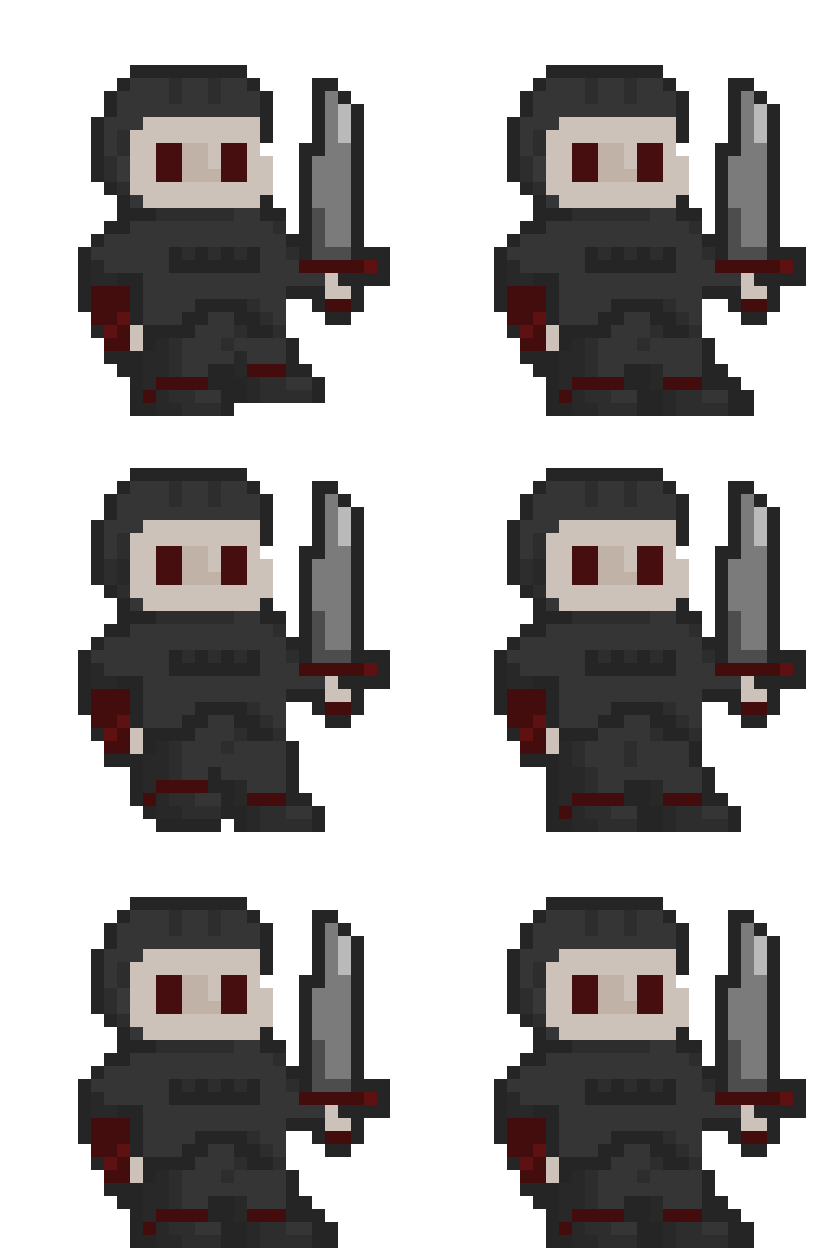
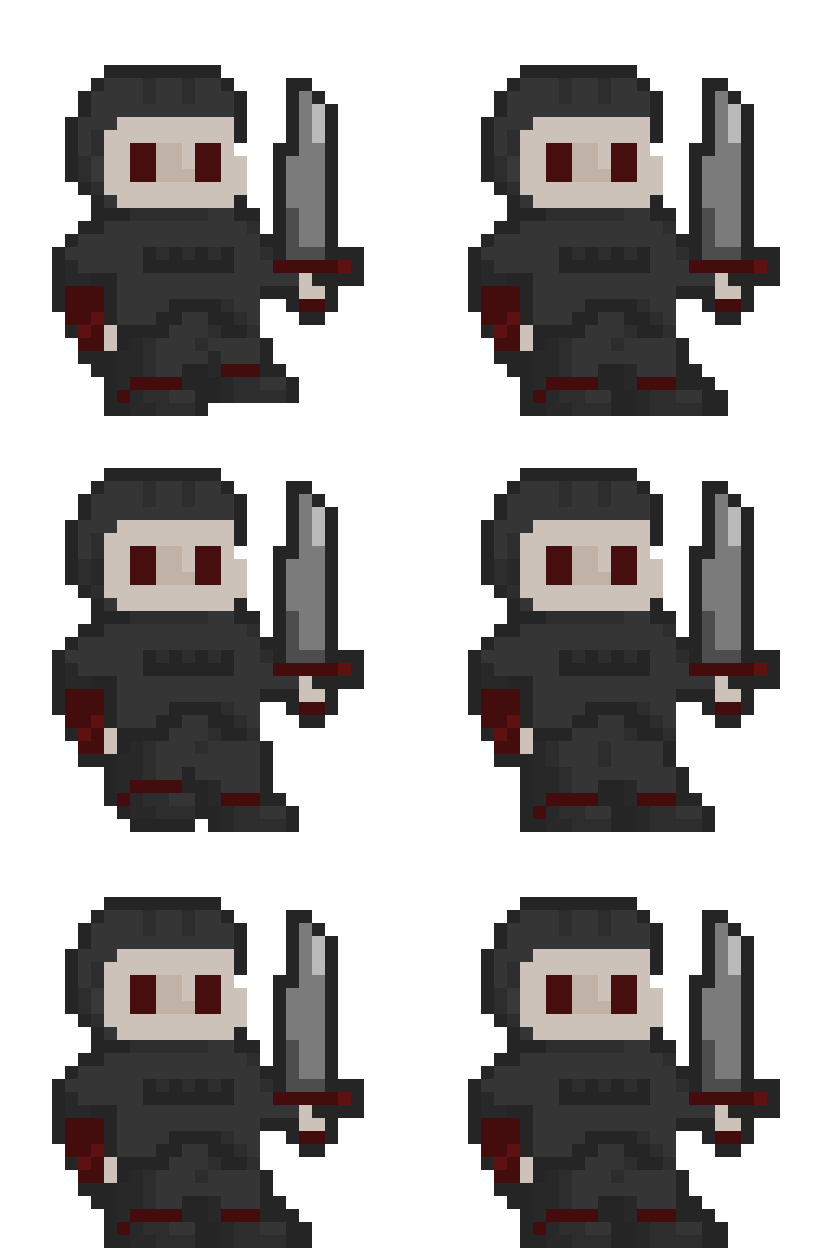
Recentered sprites!

diff --git a/core/src/main/java/io/github/killtheinnocents/View.java b/core/src/main/java/io/github/killtheinnocents/View.java
@@ -283,6 +283,7 @@ public class View extends ScreenAdapter {
     private int deathIndex;
     private int mapIndex;
     private int settingIndex;
+    private int roomIndex;
 
     // Screens
     private enum Screen {
@@ -348,9 +349,7 @@ public class View extends ScreenAdapter {
 
     public void create() {
         // Assets
-
         // sfx Gdx.audio.newSound(Gdx.files.internal(name));
-        // music Gdx.audio.newMusic(Gdx.files.internal(name));
 
         music = Gdx.audio.newMusic(Gdx.files.internal("MenuSong.wav"));
         music.setVolume(musicVolume);
@@ -385,6 +384,21 @@ public class View extends ScreenAdapter {
         healthSprite = new Sprite(wizardSheet);
         healthBarAnimation = new Animation<TextureRegion>(.25f, player.animationSplicer(healthSheet,3, 6));
 
+
+        // Logic Components
+        gameRooms = new Room[6];
+        for (int i = 0; i < 5; i++)
+        {
+            if (i == 4)
+                gameRooms[i] = new Room(player, 0, "Chest", 1, 0, 0, world);
+            else if (i == 2)
+                gameRooms[i] = new Room(player, 2, "Normal", 1, 100, 2, world);
+
+            else
+                gameRooms[i] = new Room(player, 1, "Normal", 1, 100, 2, world);
+
+        }
+
         enemies1 = new Array<>();
         createEnemies();
 
@@ -392,6 +406,7 @@ public class View extends ScreenAdapter {
         mapIndex = 0;
         settingIndex = 7;
         introIndex = 0;
+        roomIndex = 0;
 
         map = false;
         keyTime = 0;
@@ -408,10 +423,14 @@ public class View extends ScreenAdapter {
     @Override
     public void render(float delta)
     {
-        checkDistance();
+        if (roomIndex != 4)
+        {
+            checkDistance();
+            clamp(player,enemies1.get(0));
+        }
+
         this.update();
         super.render(delta);
-        clamp(player,enemies1.get(0));
 
         logic();
         draw();
@@ -505,6 +524,9 @@ public class View extends ScreenAdapter {
 
             overlay.drawOverlay(this.batch);
 
+            if (roomIndex == 4)
+                gameRooms[roomIndex].drawClosedChest(batch);
+
             // Get current frame of player animation for the current stateTime
             player.drawSprite(batch, stateTime);
 
@@ -536,7 +558,7 @@ public class View extends ScreenAdapter {
 
             batch.end();
 
-            if (elapsedTime > 10 && deathIndex < 26)
+            if (elapsedTime > 10 && deathIndex <= 26)
             {
                 elapsedTime = 0;
                 deathIndex++;
@@ -573,6 +595,13 @@ public class View extends ScreenAdapter {
 
         input();
 
+    }
+
+    private void resetGameForNewRoom()
+    {
+        player.ouchies(- (player.getMaxHealth() - player.getCHealth()));
+        player.modPos((float) (-player.geteX() + STARTX), (float) (-player.geteY() + STARTY));
+        enemies1 = gameRooms[roomIndex].getEnemyArray();
     }
 
     // updates pos. of camera
@@ -624,11 +653,15 @@ public class View extends ScreenAdapter {
         else if (currentScreen == Screen.MAIN_GAME) {
 
             if (Gdx.input.isKeyPressed(Input.Keys.L)) {
-                currentScreen = Screen.MAP;
-                elapsedTime = 0;
-                map = false;
+                for (Entity e : enemies1)
+                {
+                    e.ouchies(1);
+                }
             }
             else if (Gdx.input.isKeyPressed(Input.Keys.SPACE)) {
+                if (checkExecute(10))
+                    player.specialChangeAnimation("Attack");
+
                 for (Entity enemy : enemies1) {
                     enemy.takeDamage(player);
                     System.out.println(enemy.getCHealth());
@@ -653,9 +686,6 @@ public class View extends ScreenAdapter {
                 player.updatePosition(-1, 0);
                 player.getDirection("W");
                 player.attackBox();
-            } else if (Gdx.input.isKeyPressed(Input.Keys.SPACE)) {
-                if (checkExecute(10))
-                    player.specialChangeAnimation("Attack");
             } else if (Gdx.input.isKeyPressed(Input.Keys.H)) {
                 if (checkExecute(10)) {
                     player.specialChangeAnimation("Heal");
@@ -719,7 +749,29 @@ public class View extends ScreenAdapter {
         {
             currentScreen = Screen.GAME_OVER;
         }
+
+        // next Room
+        if (isRoomBeaten()) {
+            currentScreen = Screen.MAP;
+            elapsedTime = 0;
+            map = false;
+            roomIndex = roomIndex > 5 ? 5 : roomIndex + 1;
+            resetGameForNewRoom();
+        }
     }
+
+    private boolean isRoomBeaten()
+    {
+        if (roomIndex != 4) {
+            for (Entity e : enemies1) {
+                if (e.isLiving())
+                    return false;
+            }
+            return true;
+        }
+        return false;
+    }
+
 
     @Override
     public void dispose() {

diff --git a/core/src/main/java/helper/Room.java b/core/src/main/java/helper/Room.java
@@ -1,6 +1,10 @@
 package helper;
 
+import com.badlogic.gdx.graphics.Texture;
+import com.badlogic.gdx.graphics.g2d.Sprite;
+import com.badlogic.gdx.graphics.g2d.SpriteBatch;
 import com.badlogic.gdx.physics.box2d.World;
+import com.badlogic.gdx.utils.Array;
 import entities.Entity;
 import helper.Constants.*;
 
@@ -9,27 +13,51 @@ import static helper.Constants.potentialEnemyPositions;
 public class Room {
 
     private Entity Player;
-    private Entity[] enemies;
-
-    private String enemyTypes;
+    private Array<Entity> enemies;
 
     private int positionIndex;
 
-    public Room (Entity givenPlayer, int enemyCount, String enemyTypes, int sizeFactor, int enemyHealth, int enemyStrength, World world)
+    private String roomType;
+
+    private Texture chestTexture;
+    private Sprite chestSprite;
+
+    private Texture openChestTexture;
+    private Sprite openChestSprite;
+
+    public Room (Entity givenPlayer, int enemyCount, String roomType, int sizeFactor, int enemyHealth, int enemyStrength, World world)
     {
         Player = givenPlayer;
-        enemies = new Entity[enemyCount];
-        positionIndex = 0;
 
-        for (int enemy = 0; enemy < enemyCount; enemy++)
+        if (roomType.equals("Normal")) {
+            enemies = new Array<>();
+            positionIndex = 0;
+
+            for (int enemy = 0; enemy < enemyCount; enemy++) {
+                enemies.add(new Entity(world, enemyHealth, enemyStrength, potentialEnemyPositions[positionIndex][0], potentialEnemyPositions[positionIndex][1], false, "W", 240, 320, sizeFactor));
+                positionIndex = positionIndex > 5 ? 0 : positionIndex + 1;
+            }
+        } else if (roomType.equals("Chest"))
         {
-            enemies[enemy] = new Entity(world,enemyHealth,enemyStrength, potentialEnemyPositions[positionIndex][0],potentialEnemyPositions[positionIndex][1], false,"W",240,320, sizeFactor);
-            positionIndex = positionIndex > 5 ? 0 : positionIndex + 1;
+            // TODO:
+            chestTexture = new Texture("closedchest.png");
+
+            openChestTexture = new Texture("openchest.png");
         }
     }
 
-    private Entity[] getEnemyArray() {
+    public Array<Entity> getEnemyArray() {
         return enemies;
     }
+
+    public void drawClosedChest(SpriteBatch batch) {
+        batch.draw(chestTexture, 0, 0, 400, 400);
+    }
+
+    public void drawOpenChest(SpriteBatch batch)
+    {
+        batch.draw(openChestTexture, 0, 0, 400, 400);
+    }
+
 
 }
